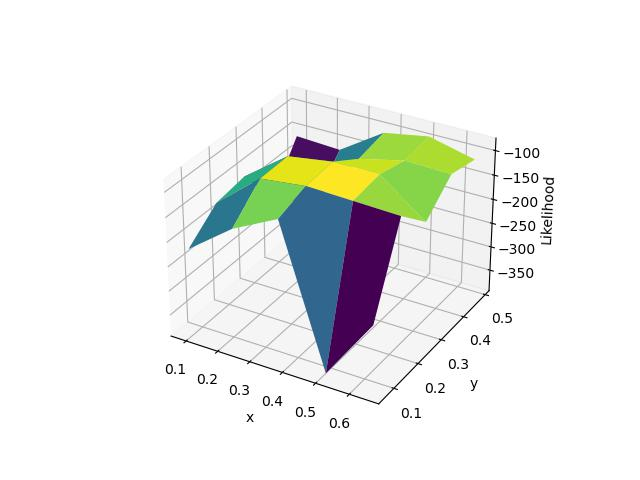
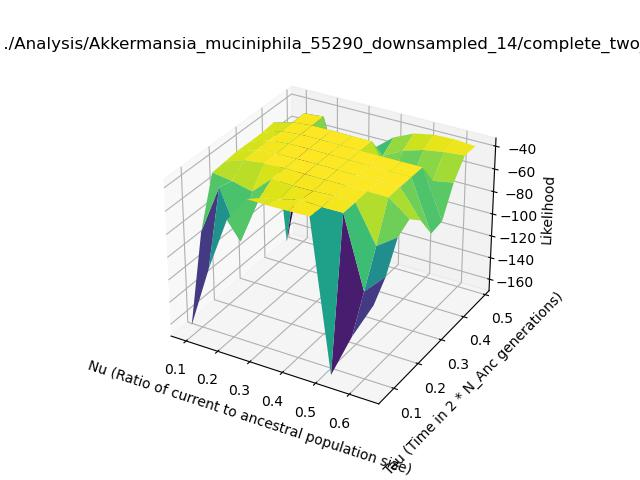
Likelihood surface test for A. muciniphila

diff --git a/Scripts/plot_likelihood.py b/Scripts/plot_likelihood.py
@@ -464,7 +464,7 @@ class PlotLikelihood():
                 x = input_nu  # Initial x value
                 y = input_tau  # Initial y value
 
-                npts = 5
+                npts = 10
 
                 x_range = numpy.linspace(x * 0.25, x * 1.75, npts)
                 y_range = numpy.linspace(y * 0.25, y * 1.75, npts)
@@ -483,7 +483,7 @@ class PlotLikelihood():
                 ax.set_xlabel('Nu (Ratio of current to ancestral population size)')
                 ax.set_ylabel('Tau (Time in 2 * N_Anc generations)')
                 ax.set_zlabel('Likelihood')
-                plt.title('Likelihood surface for {0}.'.replace(species))
+                plt.title('Likelihood surface for {0}.'.format(species))
                 plt.savefig(file)
         logger.info('Finished plotting likelihood surface.')
         logger.info('Pipeline executed succesfully.')
